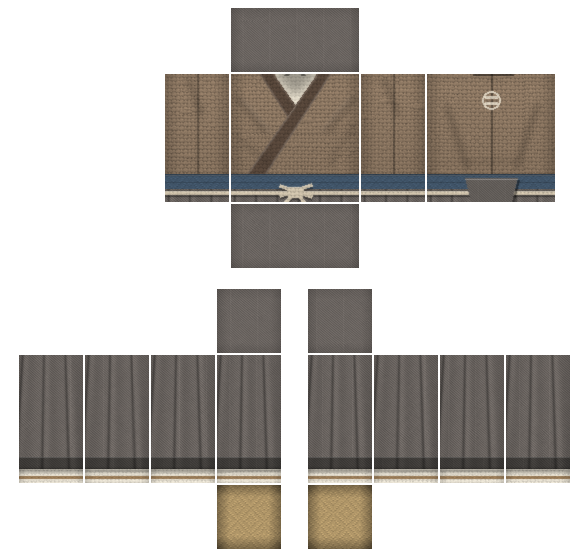
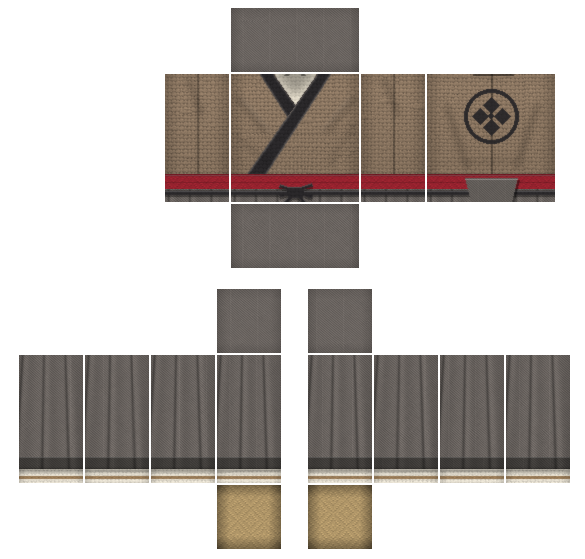
Player gi read as players, not bots (WD-12): the six catalogue gi (indigo, slate, moss, ash, oxblood, dove; same ids and names) are re-made with a contrasting collar and cuffs, a contrasting obi and a large hanabishi mon across the back, uploaded as new images; the bots keep the plain sets under bot

Changed region(s): [[0.2769, 0.1216, 0.9538, 0.3649], [0.7692, 0.1521, 0.8923, 0.2737]]

diff --git a/art/clothing/build.py b/art/clothing/build.py
@@ -70,13 +70,22 @@ LEG_SPLITS = (58, 114)  # knee row, ankle row (hakama hem ends; tabi below)
 
 # name: gi, collar (eri), inner collar (juban), obi, hakama, ties (himo), gi fabric
 COLOURWAYS: dict[str, dict] = {
-    # bots
-    "indigo": dict(gi=(62, 76, 128), eri=(40, 46, 74), juban=(226, 220, 204), obi=(168, 44, 44), hakama=(80, 86, 108), himo=(196, 186, 164), fabric="sashiko"),
-    "slate": dict(gi=(92, 112, 138), eri=(58, 70, 90), juban=(232, 226, 212), obi=(150, 52, 46), hakama=(92, 98, 112), himo=(206, 196, 172), fabric="gi_cotton"),
-    "moss": dict(gi=(96, 112, 74), eri=(60, 70, 48), juban=(228, 220, 196), obi=(176, 128, 58), hakama=(104, 96, 82), himo=(214, 200, 168), fabric="gi_cotton"),
-    "ash": dict(gi=(132, 112, 92), eri=(84, 68, 56), juban=(234, 226, 208), obi=(64, 84, 104), hakama=(106, 100, 96), himo=(200, 188, 166), fabric="gi_cotton"),
-    "oxblood": dict(gi=(124, 52, 50), eri=(78, 34, 34), juban=(230, 222, 204), obi=(196, 160, 86), hakama=(98, 90, 96), himo=(210, 196, 170), fabric="gi_cotton"),
-    "dove": dict(gi=(168, 168, 166), eri=(96, 98, 104), juban=(244, 240, 232), obi=(132, 46, 46), hakama=(96, 106, 128), himo=(220, 214, 200), fabric="sashiko"),
+    # bots (plain: a small self-coloured mon, a collar a shade darker than the gi)
+    "bot_indigo": dict(gi=(62, 76, 128), eri=(40, 46, 74), juban=(226, 220, 204), obi=(168, 44, 44), hakama=(80, 86, 108), himo=(196, 186, 164), fabric="sashiko"),
+    "bot_slate": dict(gi=(92, 112, 138), eri=(58, 70, 90), juban=(232, 226, 212), obi=(150, 52, 46), hakama=(92, 98, 112), himo=(206, 196, 172), fabric="gi_cotton"),
+    "bot_moss": dict(gi=(96, 112, 74), eri=(60, 70, 48), juban=(228, 220, 196), obi=(176, 128, 58), hakama=(104, 96, 82), himo=(214, 200, 168), fabric="gi_cotton"),
+    "bot_ash": dict(gi=(132, 112, 92), eri=(84, 68, 56), juban=(234, 226, 208), obi=(64, 84, 104), hakama=(106, 100, 96), himo=(200, 188, 166), fabric="gi_cotton"),
+    "bot_oxblood": dict(gi=(124, 52, 50), eri=(78, 34, 34), juban=(230, 222, 204), obi=(196, 160, 86), hakama=(98, 90, 96), himo=(210, 196, 170), fabric="gi_cotton"),
+    "bot_dove": dict(gi=(168, 168, 166), eri=(96, 98, 104), juban=(244, 240, 232), obi=(132, 46, 46), hakama=(96, 106, 128), himo=(220, 214, 200), fabric="sashiko"),
+    # players (Catalog outfit.indigo .. .dove): the bots' gi and hakama colours, but a contrasting
+    # collar and cuffs, a contrasting obi and a large mon across the back (`mon`), so a player in
+    # Moss Gi never reads as a moss bot.
+    "indigo": dict(gi=(62, 76, 128), eri=(222, 206, 160), juban=(236, 230, 214), obi=(34, 32, 36), hakama=(80, 86, 108), himo=(222, 206, 160), fabric="sashiko", mon=(222, 206, 160)),
+    "slate": dict(gi=(92, 112, 138), eri=(236, 230, 214), juban=(244, 240, 230), obi=(204, 164, 82), hakama=(92, 98, 112), himo=(236, 230, 214), fabric="gi_cotton", mon=(236, 230, 214)),
+    "moss": dict(gi=(96, 112, 74), eri=(232, 224, 200), juban=(240, 234, 216), obi=(34, 32, 36), hakama=(104, 96, 82), himo=(232, 224, 200), fabric="gi_cotton", mon=(232, 224, 200)),
+    "ash": dict(gi=(132, 112, 92), eri=(40, 38, 40), juban=(234, 226, 208), obi=(150, 34, 46), hakama=(106, 100, 96), himo=(40, 38, 40), fabric="gi_cotton", mon=(40, 38, 40)),
+    "oxblood": dict(gi=(124, 52, 50), eri=(232, 224, 204), juban=(240, 234, 220), obi=(34, 32, 36), hakama=(98, 90, 96), himo=(232, 224, 204), fabric="gi_cotton", mon=(232, 224, 204)),
+    "dove": dict(gi=(168, 168, 166), eri=(40, 44, 60), juban=(244, 240, 232), obi=(204, 164, 82), hakama=(96, 106, 128), himo=(40, 44, 60), fabric="sashiko", mon=(40, 44, 60)),
     # bosses (Clothing.Boss maps ids onto these)
     "nameless": dict(gi=(74, 84, 118), eri=(46, 52, 74), juban=(226, 220, 206), obi=(214, 206, 190), hakama=(82, 86, 102), himo=(214, 206, 190), fabric="sashiko"),
     "miko": dict(gi=(236, 232, 226), eri=(220, 214, 206), juban=(178, 36, 40), obi=(178, 36, 40), hakama=(176, 38, 42), himo=(236, 232, 226), fabric="gi_cotton"),
@@ -216,19 +225,34 @@ def torso_panel(cw: dict, face: str, w: int, h: int, seed: int) -> np.ndarray:
             3,
         )
         gi = darken_by(gi, folds, 0.25)
-        # A small family crest (mon) between the shoulders, in the collar colour.
-        cx, cy, r = w / 2, 26, 9
-        mon = mask_of(
-            w,
-            h,
-            lambda d: [
-                d.ellipse([cx - r, cy - r, cx + r, cy + r], outline=255, width=2),
-                d.rectangle([cx - 6, cy - 4, cx + 6, cy - 2], fill=255),
-                d.rectangle([cx - 6, cy + 2, cx + 6, cy + 4], fill=255),
-            ],
-            0.5,
-        )
-        gi = blend(gi, cloth(cw["fabric"], w, h, cw["juban"], 0.3, seed + 7), mon * 0.8)
+        if "mon" in cw:
+            # Players: a large crest across the shoulders in the trim colour, a ring around a
+            # four-petal hanabishi (a diamond of four lozenges) and a centre dot; reads at 30 studs.
+            cx, cy, r = w / 2, 42, 27
+
+            def crest(d):
+                d.ellipse([cx - r, cy - r, cx + r, cy + r], outline=255, width=4)
+                for ox, oy in ((0, -1), (1, 0), (0, 1), (-1, 0)):
+                    px, py = cx + ox * 11, cy + oy * 11
+                    d.polygon([(px, py - 8), (px + 8, py), (px, py + 8), (px - 8, py)], fill=255)
+                d.ellipse([cx - 2.5, cy - 2.5, cx + 2.5, cy + 2.5], fill=255)
+
+            mon = mask_of(w, h, crest, 0.5)
+            gi = blend(gi, cloth(cw["fabric"], w, h, cw["mon"], 0.25, seed + 7), mon * 0.95)
+        else:
+            # Bots: a small family crest (mon) between the shoulders, in the collar colour.
+            cx, cy, r = w / 2, 26, 9
+            mon = mask_of(
+                w,
+                h,
+                lambda d: [
+                    d.ellipse([cx - r, cy - r, cx + r, cy + r], outline=255, width=2),
+                    d.rectangle([cx - 6, cy - 4, cx + 6, cy - 2], fill=255),
+                    d.rectangle([cx - 6, cy + 2, cx + 6, cy + 4], fill=255),
+                ],
+                0.5,
+            )
+            gi = blend(gi, cloth(cw["fabric"], w, h, cw["juban"], 0.3, seed + 7), mon * 0.8)
     else:  # sides: a side seam and an armpit fold
         seam = mask_of(w, h, lambda d: d.line([(w / 2, 0), (w / 2, h)], fill=255, width=2), 0.6)
         gi = darken_by(gi, seam, 0.3)
